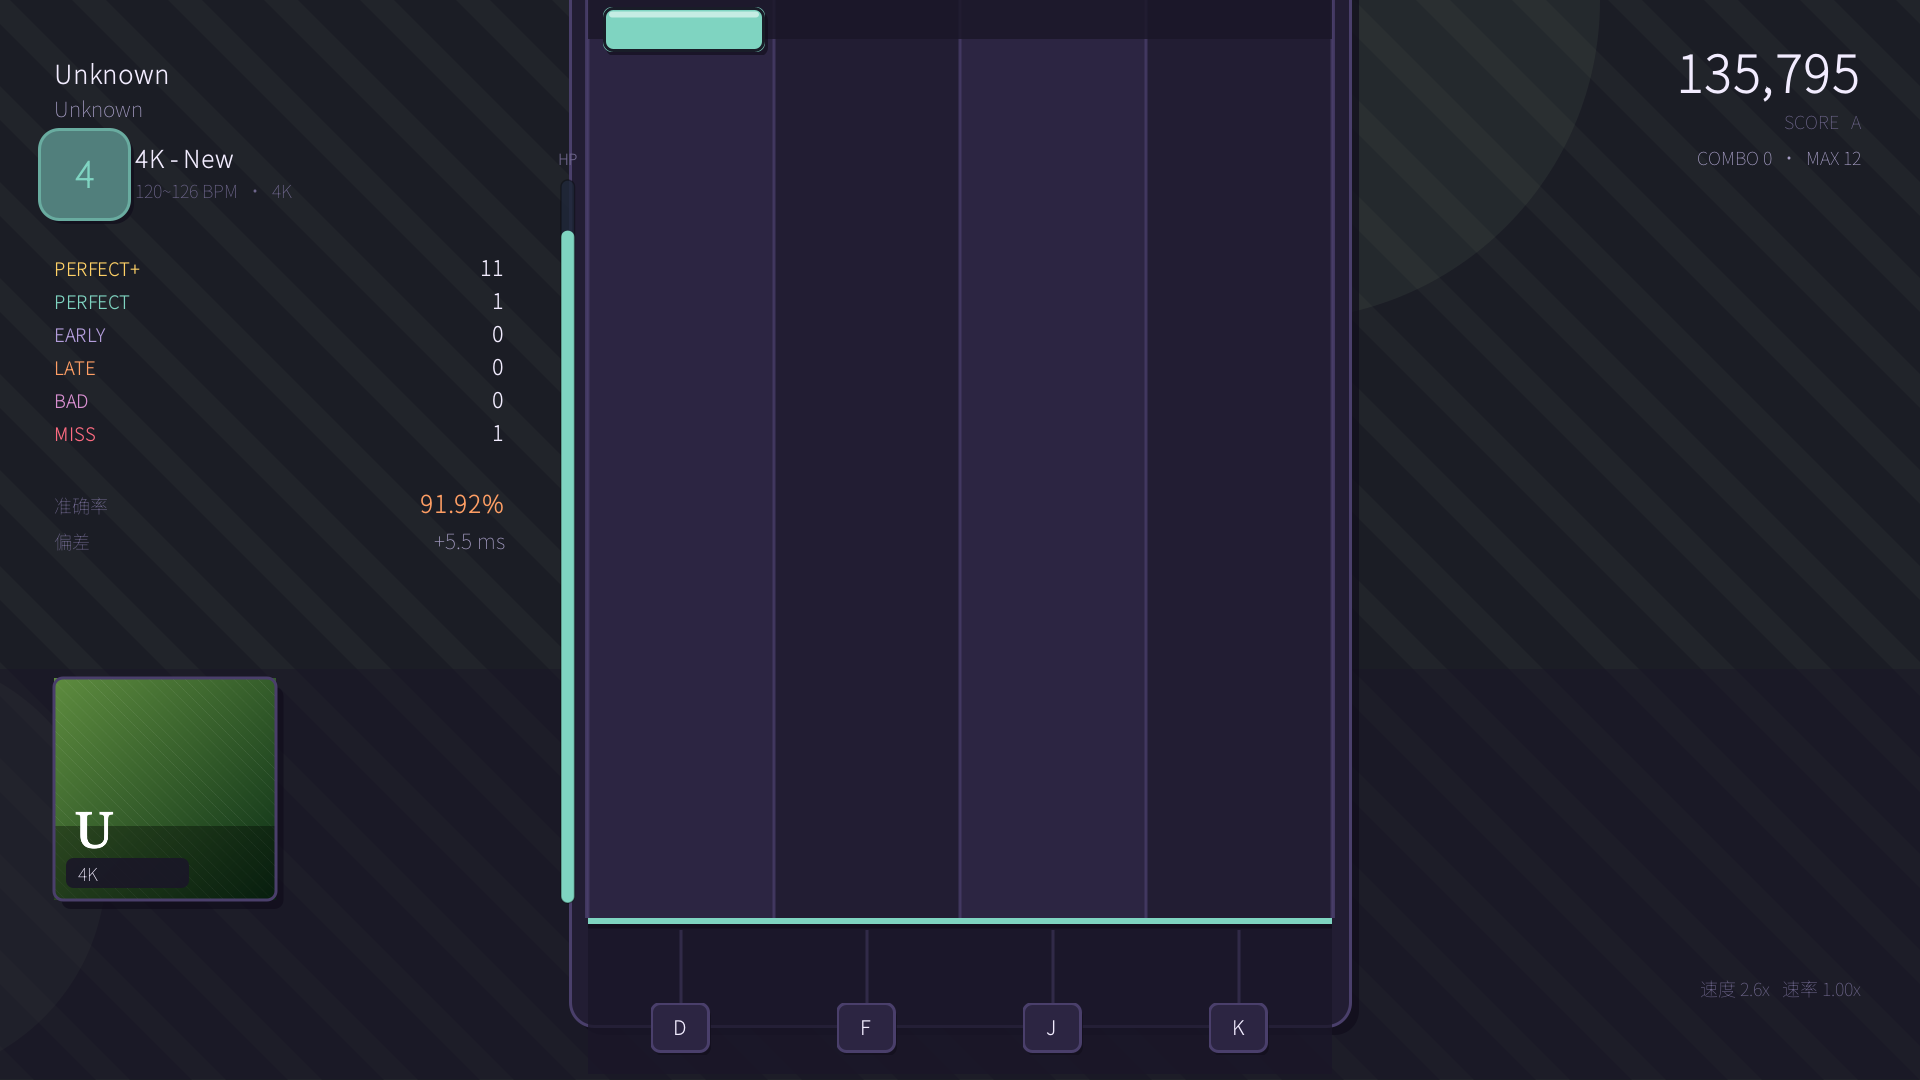
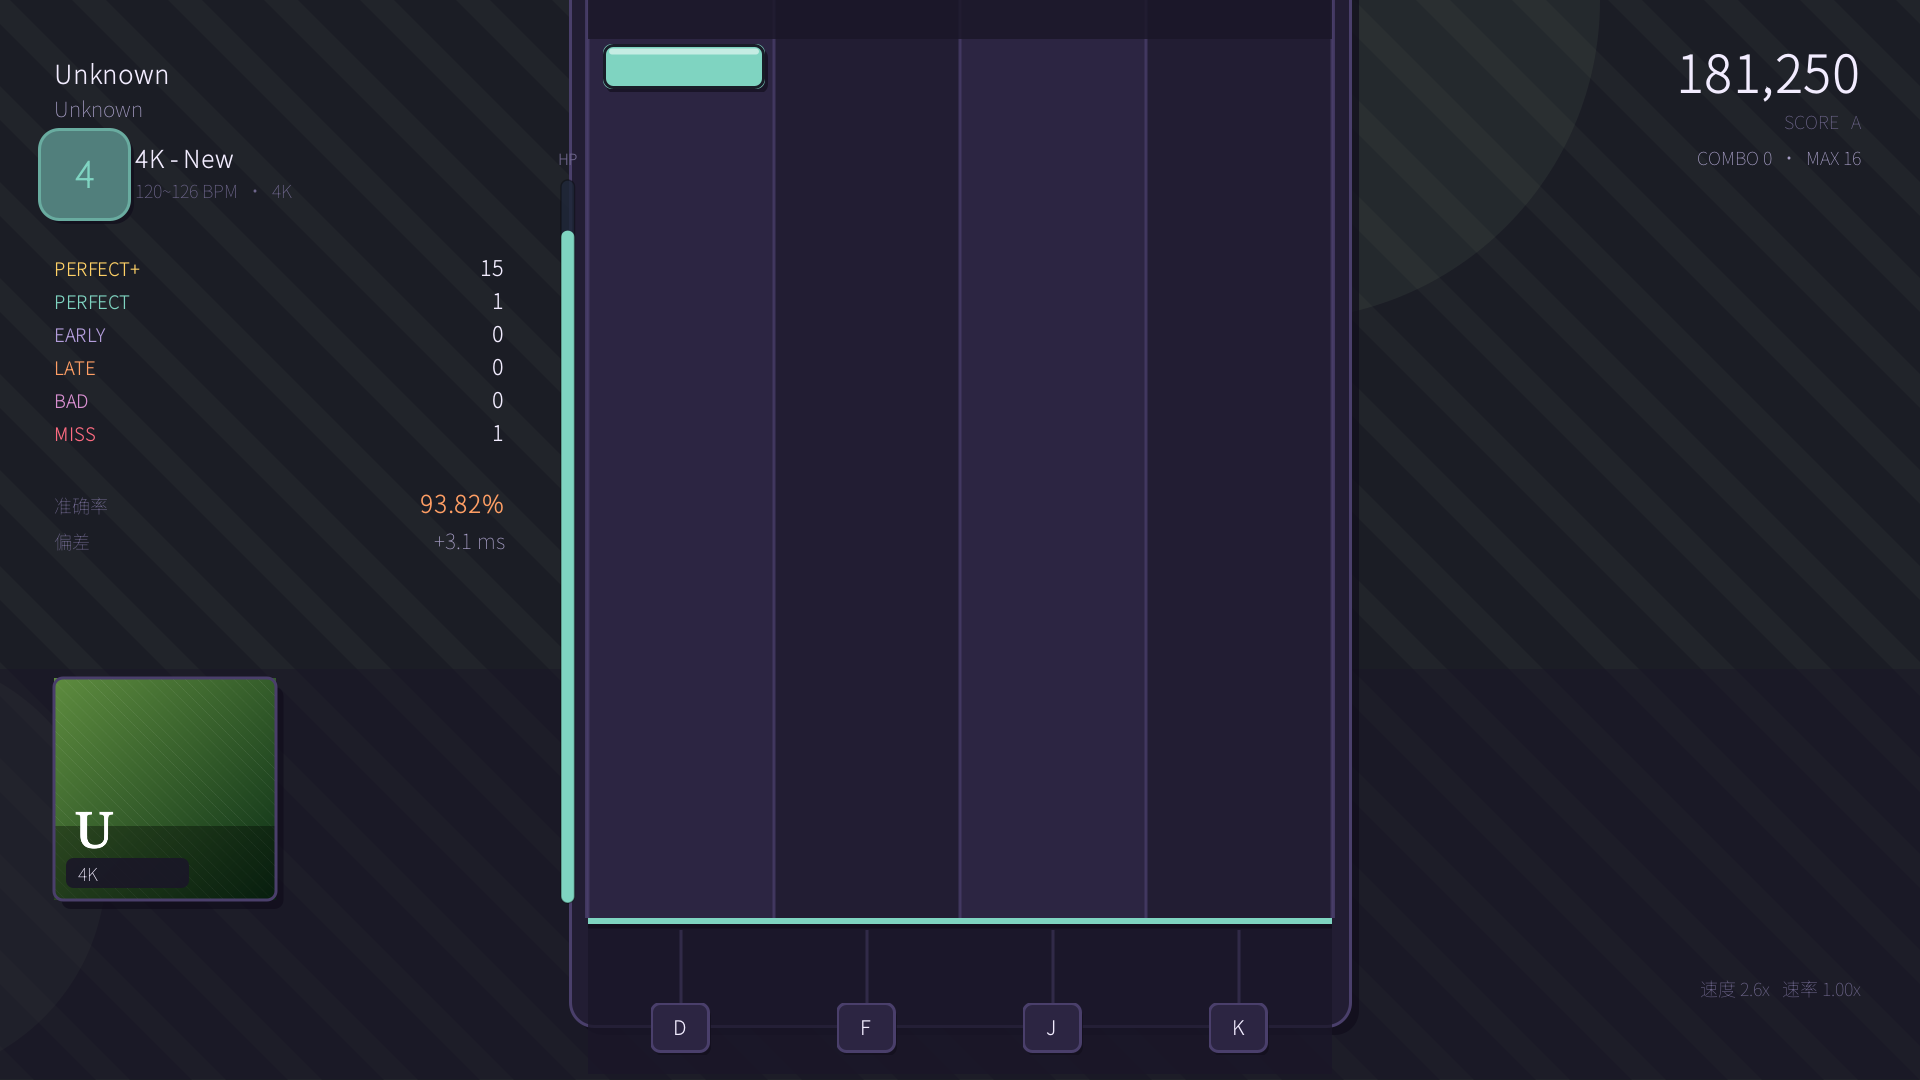
fix: Malody V 的 beat 不应乘 4（整张谱慢了四倍）
用户指出自己写的谱只有 20 秒，而加载器算出 81 秒。

实测定位：对音频做 5ms 精度起音检测后，
- beat:[a,b,c] => a + b/c 拍（不乘 4）：88 个音符中 67 个落在起音峰 ±40ms 内，
  首音符 500ms 正好对上音频 475ms 的起音，末音符 20.26s，与作者说的 20.5s 吻合
- 原来的 (a+b/c)*4：末音符 81.05s，且谱面比音频(78.1s)还长

改动：
- MalodyLoader.beatOf 去掉 ×4，并新增 beatArray() 反向换算
- DemoGen 按拍数写 beat 数组，重新生成演示谱（时长不变：53s/41s/47s）
- 自测的 beat 断言同步更新，并新增拍数组往返用例
- README 注明这个坑

自测 102 -> 104 项

Changed region(s): [[0.3125, 0.0, 0.4062, 0.0917], [0.875, 0.0306, 0.9688, 0.0917], [0.2188, 0.4583, 0.25, 0.4889]]

diff --git a/src/dev/java/komgp/dev/SelfTest.java b/src/dev/java/komgp/dev/SelfTest.java
@@ -92,12 +92,15 @@ public final class SelfTest {
     }
 
     private static void testBeatMath() {
-        // Malody: [小节, 分子, 分母] => (小节 + 分子/分母) * 4 拍
+        // Malody V: beat:[a,b,c] => a + b/c 拍（四分音符），**不**乘 4。
+        // 这一条是对着真实谱面 + 音频起音实测出来的：乘 4 会让整张谱慢四倍。
         check("beat [0,0,1] = 0", close(beat(new Object[]{0, 0, 1}), 0));
-        check("beat [1,0,4] = 4", close(beat(new Object[]{1, 0, 4}), 4));
-        check("beat [1,1,4] = 5", close(beat(new Object[]{1, 1, 4}), 5));
-        check("beat [1,1,8] = 4.5", close(beat(new Object[]{1, 1, 8}), 4.5));
-        check("beat [2,3,16] = 8.75", close(beat(new Object[]{2, 3, 16}), 8.75));
+        check("beat [1,0,4] = 1", close(beat(new Object[]{1, 0, 4}), 1));
+        check("beat [1,1,4] = 1.25", close(beat(new Object[]{1, 1, 4}), 1.25));
+        check("beat [1,1,8] = 1.125", close(beat(new Object[]{1, 1, 8}), 1.125));
+        check("beat [2,3,16] = 2.1875", close(beat(new Object[]{2, 3, 16}), 2.1875));
+        check("拍数组往返", close(
+                beat(komgp.format.MalodyLoader.beatArray(42.5).toArray()), 42.5));
     }
 
     private static double beat(Object[] arr) {
@@ -307,8 +310,9 @@ public final class SelfTest {
         for (int v : perCol) allCols &= v > 0;
         check("Malody V 音符分布在 4 列上", allCols);
         check("Malody V 找到音频（song.file）", lc.audio != null && lc.audio.length > 10000);
-        check("Malody V 不改写音符时间轴（首音符仍是 2000ms）",
-                Math.abs(c.time[0] - 2000) < 60);
+        check("Malody V 拍数换算正确（首音符 500ms）",
+                Math.abs(c.time[0] - 500) < 60);
+        check("Malody V 全曲长度约 20 秒", c.lastNoteMs > 19000 && c.lastNoteMs < 21000);
         check("Malody V 把音源偏移记成音频延迟 478ms",
                 Math.abs(c.audioDelayMs - 478) < 1);
         check("Malody V BPM 解析", Math.abs(c.timing.bpmMax() - 126) < 0.01);

diff --git a/src/main/java/komgp/format/MalodyLoader.java b/src/main/java/komgp/format/MalodyLoader.java
@@ -358,24 +358,39 @@ public final class MalodyLoader {
         }
     }
 
-    /** beat 数组 -> 绝对拍数：[小节, 分子, 分母] => (小节 + 分子/分母) * 4。 */
+    /**
+     * {@code beat:[a,b,c]} -> 绝对拍数（四分音符计数） = {@code a + b/c}。
+     *
+     * <p>注意：这里**不**乘 4。实测（对照音频起音）Malody V 的 .mc 里第一个分量
+     * 已经是拍数而不是小节号，也就是 4/4 下一小节 = 4 拍 = 4 个序号；
+     * 若按 (a + b/c) * 4 换算，整张谱会慢 4 倍。
+     */
     public static double beatOf(Object o) {
         List<Object> l = Json.asArr(o);
         if (l != null) {
             if (l.size() >= 3) {
-                double bar = Json.num(l.get(0), 0);
+                double a = Json.num(l.get(0), 0);
                 double num = Json.num(l.get(1), 0);
                 double den = Json.num(l.get(2), 0);
                 if (den <= 0) den = 1;
-                return (bar + num / den) * 4.0;
+                return a + num / den;
             }
             if (l.size() == 2) {
-                return Json.num(l.get(0), 0) * 4.0 + Json.num(l.get(1), 0);
+                return Json.num(l.get(0), 0) + Json.num(l.get(1), 0);
             }
-            if (l.size() == 1) return Json.num(l.get(0), 0) * 4.0;
+            if (l.size() == 1) return Json.num(l.get(0), 0);
         }
         if (o instanceof Number n) return n.doubleValue();
         return Double.NaN;
+    }
+
+    /** 绝对拍数 -> {@code [a,b,c]}（1/16 拍精度），供导出/演示谱使用。 */
+    public static List<Object> beatArray(double beats) {
+        double b = Math.max(0, beats);
+        int a = (int) Math.floor(b);
+        int num = (int) Math.round((b - a) * 16);
+        if (num >= 16) { a++; num -= 16; }
+        return List.of(a, num, 16);
     }
 
     private static Object firstOf(Map<String, Object> m, String... keys) {

diff --git a/src/main/java/komgp/tools/DemoGen.java b/src/main/java/komgp/tools/DemoGen.java
@@ -265,17 +265,22 @@ public final class DemoGen {
         return col;
     }
 
+    /** 16 分步进 -> 绝对拍数（一小节 4 拍）。 */
+    private static double beatOfStep(int bar, int step) {
+        return bar * 4.0 + step / 4.0;
+    }
+
     private static void addNote(List<Object> notes, int bar, int step, int col) {
         Map<String, Object> n = new LinkedHashMap<>();
-        n.put("beat", List.of(bar, step, 16));
+        n.put("beat", komgp.format.MalodyLoader.beatArray(beatOfStep(bar, step)));
         n.put("column", col);
         notes.add(n);
     }
 
     private static void addHold(List<Object> notes, int bar, int step, int col, int lenSteps) {
         Map<String, Object> n = new LinkedHashMap<>();
-        n.put("beat", List.of(bar, step, 16));
-        n.put("endbeat", List.of(bar, (step + lenSteps) % 16, 16));
+        n.put("beat", komgp.format.MalodyLoader.beatArray(beatOfStep(bar, step)));
+        n.put("endbeat", komgp.format.MalodyLoader.beatArray(beatOfStep(bar, step + lenSteps)));
         n.put("column", col);
         notes.add(n);
     }
